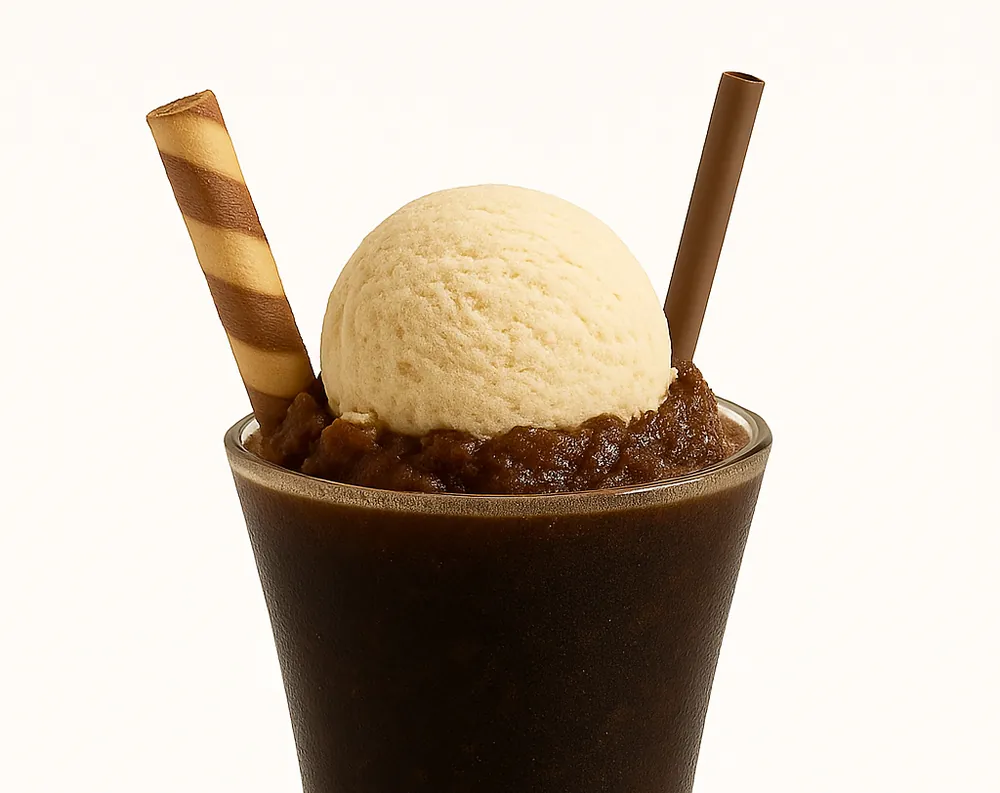
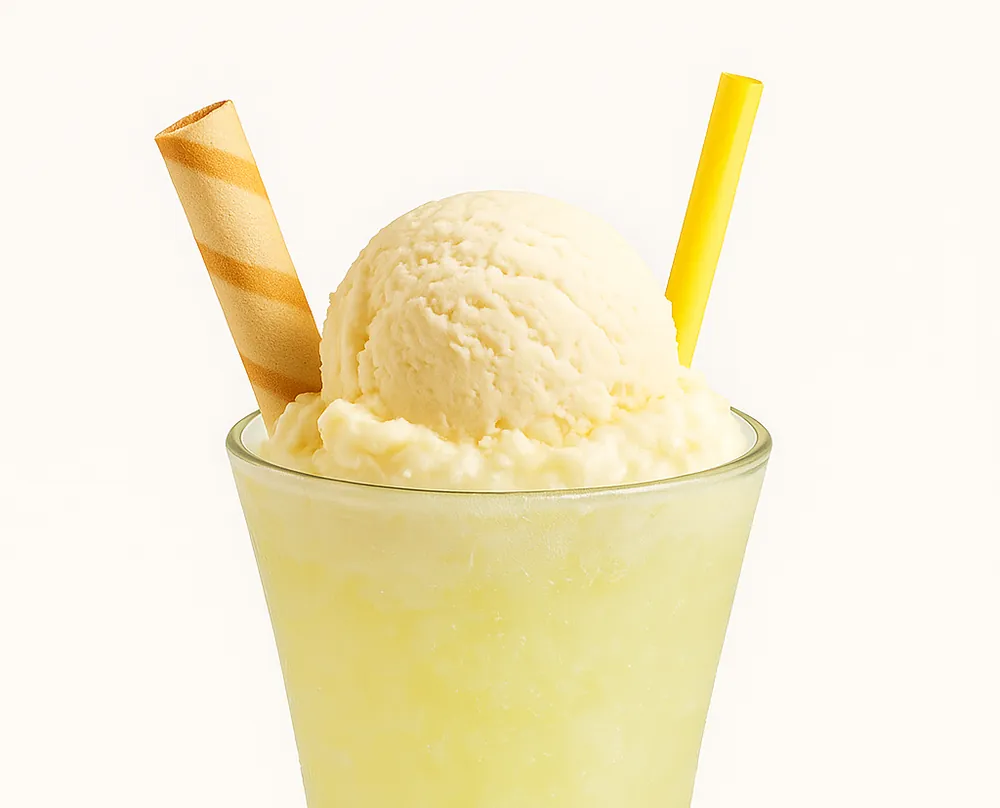
feat: fotos de granizados/helado, batido de Nube disponible y header sin tirones
Imágenes:
- Granizado de Turrón -> granizado11; Canario -> granizado12;
  Blanco y negro -> granizado13 (corregidos los alt copiados mal)
- Helado Tarta de queso -> helado27 (recorte temporal a 667x1000; pendiente
  reencuadre desde el original)

Disponibilidad:
- Batido de "Nube" pasado a disponible (quitado el estado no disponible)

Rendimiento (móvil):
- El header vuelve a su transición suave de 1.2s, pero se elimina el tirón en
  helados/batidos: la franja de precios sticky ya no se sincroniza leyendo
  nav.offsetHeight en cada frame (forzaba reflow 60x/seg sobre 35-41 tarjetas);
  ahora se miden las alturas una vez y la franja sigue a la nav con una
  transición CSS de 'top'. Scroll listener de la nav en modo passive.

diff --git a/script.js b/script.js
@@ -325,38 +325,55 @@ document.addEventListener('DOMContentLoaded', () => {
             nav.classList.remove('nav--compact');
         }
         toTop.classList.toggle('is-visible', window.scrollY > 400);
-    });
+    }, { passive: true });
 
-    // La franja de precios (sticky) se pega justo debajo de la nav. Como la
-    // nav cambia de altura al hacer scroll (con transición de ~1.2s), aquí
-    // sincronizamos su 'top' con la altura real de la nav en cada momento,
-    // siguiéndola también mientras la barra se agranda/encoge.
+    // La franja de precios (sticky) se pega justo debajo de la nav. La nav
+    // cambia de altura al hacer scroll con una transición de 1.2s. Antes
+    // seguíamos su altura con requestAnimationFrame leyendo nav.offsetHeight en
+    // CADA frame, lo que forzaba un recálculo de layout 60 veces/seg durante
+    // 1.2s; en helados/batidos (35-41 tarjetas) eso provocaba tirones.
+    // Ahora medimos las dos alturas de la nav UNA vez y, al cruzar el umbral,
+    // fijamos el 'top' de la franja al destino: la transición CSS de 'top'
+    // (misma curva y duración que la nav) la mantiene pegada SIN tocar el
+    // layout por frame.
     const priceLegend = document.querySelector('.legend-sticky');
     if (priceLegend) {
         const GAP = 0;
-        let followId = null;
-        let stopTimer = null;
-        const syncLegendTop = () => {
-            priceLegend.style.top = (nav.offsetHeight + GAP) + 'px';
+        let navTall = 0, navShort = 0;
+        const measureNav = () => {
+            const wasCompact = nav.classList.contains('nav--compact');
+            // 'nav--measuring' apaga las transiciones de la nav y de TODOS sus
+            // hijos para que alternar la clase no dispare animaciones/parpadeos.
+            nav.classList.add('nav--measuring');
+            nav.classList.remove('nav--compact');
+            navTall = nav.offsetHeight;
+            nav.classList.add('nav--compact');
+            navShort = nav.offsetHeight;
+            nav.classList.toggle('nav--compact', wasCompact);
+            nav.offsetHeight;                  // asienta el estado sin animar
+            nav.classList.remove('nav--measuring');
         };
-        const follow = () => {
-            syncLegendTop();
-            followId = requestAnimationFrame(follow);
+        let lastCompact = null;
+        const placeLegend = (animate) => {
+            const compact = window.scrollY > 60;
+            if (compact === lastCompact) return;
+            lastCompact = compact;
+            const top = (compact ? navShort : navTall) + GAP + 'px';
+            if (animate) {
+                priceLegend.style.top = top;   // la transición CSS la anima
+            } else {
+                const prev = priceLegend.style.transition;
+                priceLegend.style.transition = 'none';
+                priceLegend.style.top = top;
+                priceLegend.offsetHeight;
+                priceLegend.style.transition = prev;
+            }
         };
-        const stopFollow = () => {
-            if (followId) { cancelAnimationFrame(followId); followId = null; }
-            syncLegendTop();
-        };
-        syncLegendTop();
-        window.addEventListener('load', syncLegendTop);
-        window.addEventListener('resize', syncLegendTop);
-        window.addEventListener('scroll', syncLegendTop, { passive: true });
-        // Mientras la nav anima su tamaño, seguimos su altura cada frame
-        nav.addEventListener('transitionrun', () => {
-            if (!followId) follow();
-            clearTimeout(stopTimer);
-            stopTimer = setTimeout(stopFollow, 1400);
-        });
+        const reset = () => { measureNav(); lastCompact = null; placeLegend(false); };
+        reset();
+        window.addEventListener('load', reset);
+        window.addEventListener('resize', reset);
+        window.addEventListener('scroll', () => placeLegend(true), { passive: true });
     }
 
     // Animación de aparición de tarjetas al hacer scroll

diff --git a/granizados.html b/granizados.html
@@ -28,7 +28,7 @@
     <link rel="apple-touch-icon" href="/assets/favicon.png">
     <link rel="icon" type="image/x-icon" href="/assets/favicon.ico" sizes="any">
     <link rel="stylesheet" href="/reset.css">
-    <link rel="stylesheet" href="/style.css">
+    <link rel="stylesheet" href="/style.css">
     <link rel="preconnect" href="https://fonts.googleapis.com">
     <link rel="preconnect" href="https://fonts.gstatic.com" crossorigin>
     <link href="https://fonts.googleapis.com/css2?family=Open+Sans:ital,wght@0,300..800;1,300..800&family=Lobster+Two:ital,wght@0,400;0,700;1,400;1,700&display=swap" rel="stylesheet">
@@ -168,8 +168,7 @@
                 </div>
                 <div class="product-card">
                     <div class="product-card__image">
-                        <img loading="lazy" decoding="async" src="/assets/granizado-turron.webp" alt="Granizado de Turrón refrescante en Lo Pagán" class="product-card__img" onerror="this.style.display='none'; this.nextElementSibling.style.display='block';">
-                        <div class="no-image-placeholder" style="display: none; text-align: center; padding: 20px; color: #666; font-style: italic;" data-i18n="imagen-no-disponible">Imagen no disponible</div>
+                        <img loading="lazy" decoding="async" src="/assets/granizado11.webp" alt="Granizado de Turrón refrescante en Lo Pagán" class="product-card__img">
                     </div>
                     <div class="product-card__content">
                         <h2 class="product-card__title" data-i18n="turron">Turrón</h2>
@@ -177,7 +176,7 @@
                 </div>
                 <div class="product-card">
                     <div class="product-card__image">
-                        <img loading="lazy" decoding="async" src="/assets/granizado11.webp" alt="Granizado de Maracuyá con mango refrescante en San Pedro del Pinatar" class="product-card__img img-ajustada">
+                        <img loading="lazy" decoding="async" src="/assets/granizado12.webp" alt="Granizado Canario refrescante en San Pedro del Pinatar" class="product-card__img img-ajustada">
                     </div>
                     <div class="product-card__content">
                         <h2 class="product-card__title" data-i18n="canario">Canario</h2>
@@ -186,7 +185,7 @@
                 </div>
                 <div class="product-card">
                     <div class="product-card__image">
-                        <img loading="lazy" decoding="async" src="/assets/granizado12.webp" alt="Granizado de Maracuyá con mango refrescante en San Pedro del Pinatar" class="product-card__img img-ajustada">
+                        <img loading="lazy" decoding="async" src="/assets/granizado13.webp" alt="Granizado Blanco y negro refrescante en San Pedro del Pinatar" class="product-card__img img-ajustada">
                     </div>
                     <div class="product-card__content">
                         <h2 class="product-card__title" data-i18n="blanco-y-negro">Blanco y negro</h2>

diff --git a/fr/granizados.html b/fr/granizados.html
@@ -29,7 +29,6 @@
     <link rel="icon" type="image/x-icon" href="/assets/favicon.ico" sizes="any">
     <link rel="stylesheet" href="/reset.css">
     <link rel="stylesheet" href="/style.css">
-
     <link rel="preconnect" href="https://fonts.googleapis.com">
     <link rel="preconnect" href="https://fonts.gstatic.com" crossorigin>
     <link href="https://fonts.googleapis.com/css2?family=Open+Sans:ital,wght@0,300..800;1,300..800&family=Lobster+Two:ital,wght@0,400;0,700;1,400;1,700&display=swap" rel="stylesheet">
@@ -169,8 +168,7 @@
                 </div>
                 <div class="product-card">
                     <div class="product-card__image">
-                        <img loading="lazy" decoding="async" src="/assets/granizado-turron.webp" alt="Granizado de Turrón refrescante en Lo Pagán" class="product-card__img" onerror="this.style.display='none'; this.nextElementSibling.style.display='block';">
-                        <div class="no-image-placeholder" style="display: none; text-align: center; padding: 20px; color: #666; font-style: italic;" data-i18n="imagen-no-disponible">Image non disponible</div>
+                        <img loading="lazy" decoding="async" src="/assets/granizado11.webp" alt="Granizado de Turrón refrescante en Lo Pagán" class="product-card__img">
                     </div>
                     <div class="product-card__content">
                         <h2 class="product-card__title" data-i18n="turron">Nougat</h2>
@@ -178,7 +176,7 @@
                 </div>
                 <div class="product-card">
                     <div class="product-card__image">
-                        <img loading="lazy" decoding="async" src="/assets/granizado11.webp" alt="Granizado de Maracuyá con mango refrescante en San Pedro del Pinatar" class="product-card__img img-ajustada">
+                        <img loading="lazy" decoding="async" src="/assets/granizado12.webp" alt="Granizado Canario refrescante en San Pedro del Pinatar" class="product-card__img img-ajustada">
                     </div>
                     <div class="product-card__content">
                         <h2 class="product-card__title" data-i18n="canario">Canario</h2>
@@ -187,7 +185,7 @@
                 </div>
                 <div class="product-card">
                     <div class="product-card__image">
-                        <img loading="lazy" decoding="async" src="/assets/granizado12.webp" alt="Granizado de Maracuyá con mango refrescante en San Pedro del Pinatar" class="product-card__img img-ajustada">
+                        <img loading="lazy" decoding="async" src="/assets/granizado13.webp" alt="Granizado Blanco y negro refrescante en San Pedro del Pinatar" class="product-card__img img-ajustada">
                     </div>
                     <div class="product-card__content">
                         <h2 class="product-card__title" data-i18n="blanco-y-negro">Blanco y negro</h2>

diff --git a/en/granizados.html b/en/granizados.html
@@ -29,7 +29,6 @@
     <link rel="icon" type="image/x-icon" href="/assets/favicon.ico" sizes="any">
     <link rel="stylesheet" href="/reset.css">
     <link rel="stylesheet" href="/style.css">
-
     <link rel="preconnect" href="https://fonts.googleapis.com">
     <link rel="preconnect" href="https://fonts.gstatic.com" crossorigin>
     <link href="https://fonts.googleapis.com/css2?family=Open+Sans:ital,wght@0,300..800;1,300..800&family=Lobster+Two:ital,wght@0,400;0,700;1,400;1,700&display=swap" rel="stylesheet">
@@ -169,8 +168,7 @@
                 </div>
                 <div class="product-card">
                     <div class="product-card__image">
-                        <img loading="lazy" decoding="async" src="/assets/granizado-turron.webp" alt="Granizado de Turrón refrescante en Lo Pagán" class="product-card__img" onerror="this.style.display='none'; this.nextElementSibling.style.display='block';">
-                        <div class="no-image-placeholder" style="display: none; text-align: center; padding: 20px; color: #666; font-style: italic;" data-i18n="imagen-no-disponible">Image not available</div>
+                        <img loading="lazy" decoding="async" src="/assets/granizado11.webp" alt="Granizado de Turrón refrescante en Lo Pagán" class="product-card__img">
                     </div>
                     <div class="product-card__content">
                         <h2 class="product-card__title" data-i18n="turron">Nougat</h2>
@@ -178,7 +176,7 @@
                 </div>
                 <div class="product-card">
                     <div class="product-card__image">
-                        <img loading="lazy" decoding="async" src="/assets/granizado11.webp" alt="Granizado de Maracuyá con mango refrescante en San Pedro del Pinatar" class="product-card__img img-ajustada">
+                        <img loading="lazy" decoding="async" src="/assets/granizado12.webp" alt="Granizado Canario refrescante en San Pedro del Pinatar" class="product-card__img img-ajustada">
                     </div>
                     <div class="product-card__content">
                         <h2 class="product-card__title" data-i18n="canario">Canario</h2>
@@ -187,7 +185,7 @@
                 </div>
                 <div class="product-card">
                     <div class="product-card__image">
-                        <img loading="lazy" decoding="async" src="/assets/granizado12.webp" alt="Granizado de Maracuyá con mango refrescante en San Pedro del Pinatar" class="product-card__img img-ajustada">
+                        <img loading="lazy" decoding="async" src="/assets/granizado13.webp" alt="Granizado Blanco y negro refrescante en San Pedro del Pinatar" class="product-card__img img-ajustada">
                     </div>
                     <div class="product-card__content">
                         <h2 class="product-card__title" data-i18n="blanco-y-negro">Blanco y negro</h2>

diff --git a/batidos.html b/batidos.html
@@ -28,7 +28,7 @@
     <link rel="apple-touch-icon" href="/assets/favicon.png">
     <link rel="icon" type="image/x-icon" href="/assets/favicon.ico" sizes="any">
     <link rel="stylesheet" href="/reset.css">
-    <link rel="stylesheet" href="/style.css">
+    <link rel="stylesheet" href="/style.css">
     <link rel="preconnect" href="https://fonts.googleapis.com">
     <link rel="preconnect" href="https://fonts.gstatic.com" crossorigin>
     <link href="https://fonts.googleapis.com/css2?family=Open+Sans:ital,wght@0,300..800;1,300..800&family=Lobster+Two:ital,wght@0,400;0,700;1,400;1,700&display=swap" rel="stylesheet">
@@ -283,10 +283,10 @@
                     </div>
                 </div>
 
-                <div class="product-card product-card--unavailable">
+                <div class="product-card">
                     <div class="product-card__image">
                         <img loading="lazy" decoding="async" src="/assets/batido19.webp" alt="Batido de Nube en Lo Pagán" class="product-card__img" onerror="this.style.display='none'; this.nextElementSibling.style.display='block';">
-                        <div class="product-label product-label--unavailable" data-i18n="no-disponible">No disponible</div>
+                        <div class="no-image-placeholder" style="display: none; text-align: center; padding: 20px; color: #666; font-style: italic;" data-i18n="imagen-no-disponible">Imagen no disponible</div>
                     </div>
                     <div class="product-card__content">
                         <h2 class="product-card__title" data-i18n="nube">Nube</h2>

diff --git a/helados.html b/helados.html
@@ -28,7 +28,7 @@
     <link rel="apple-touch-icon" href="/assets/favicon.png">
     <link rel="icon" type="image/x-icon" href="/assets/favicon.ico" sizes="any">
     <link rel="stylesheet" href="/reset.css">
-    <link rel="stylesheet" href="/style.css">
+    <link rel="stylesheet" href="/style.css">
     <link rel="preconnect" href="https://fonts.googleapis.com">
     <link rel="preconnect" href="https://fonts.gstatic.com" crossorigin>
     <link href="https://fonts.googleapis.com/css2?family=Open+Sans:ital,wght@0,300..800;1,300..800&family=Lobster+Two:ital,wght@0,400;0,700;1,400;1,700&display=swap" rel="stylesheet">
@@ -347,8 +347,7 @@
                 </div>
                 <div class="product-card">
                     <div class="product-card__image">
-                        <img loading="lazy" decoding="async" src="/assets/tarta-queso.webp" alt="Helado de Tarta de queso artesanal en Lo Pagán" class="product-card__img" onerror="this.style.display='none'; this.nextElementSibling.style.display='block';">
-                        <div class="no-image-placeholder" style="display: none; text-align: center; padding: 20px; color: #666; font-style: italic;" data-i18n="imagen-no-disponible">Imagen no disponible</div>
+                        <img loading="lazy" decoding="async" src="/assets/helado27.webp" alt="Helado artesanal de Tarta de queso en Lo Pagán" class="product-card__img">
                         <div class="product-label product-label--new" data-i18n="nuevo">Nuevo</div>
                     </div>
                     <div class="product-card__content">

diff --git a/fr/batidos.html b/fr/batidos.html
@@ -29,7 +29,6 @@
     <link rel="icon" type="image/x-icon" href="/assets/favicon.ico" sizes="any">
     <link rel="stylesheet" href="/reset.css">
     <link rel="stylesheet" href="/style.css">
-
     <link rel="preconnect" href="https://fonts.googleapis.com">
     <link rel="preconnect" href="https://fonts.gstatic.com" crossorigin>
     <link href="https://fonts.googleapis.com/css2?family=Open+Sans:ital,wght@0,300..800;1,300..800&family=Lobster+Two:ital,wght@0,400;0,700;1,400;1,700&display=swap" rel="stylesheet">
@@ -284,10 +283,10 @@
                     </div>
                 </div>
 
-                <div class="product-card product-card--unavailable">
+                <div class="product-card">
                     <div class="product-card__image">
                         <img loading="lazy" decoding="async" src="/assets/batido19.webp" alt="Batido de Nube en Lo Pagán" class="product-card__img" onerror="this.style.display='none'; this.nextElementSibling.style.display='block';">
-                        <div class="product-label product-label--unavailable" data-i18n="no-disponible">Non disponible</div>
+                        <div class="no-image-placeholder" style="display: none; text-align: center; padding: 20px; color: #666; font-style: italic;" data-i18n="imagen-no-disponible">Image non disponible</div>
                     </div>
                     <div class="product-card__content">
                         <h2 class="product-card__title" data-i18n="nube">Barbe à papa</h2>

diff --git a/en/batidos.html b/en/batidos.html
@@ -29,7 +29,6 @@
     <link rel="icon" type="image/x-icon" href="/assets/favicon.ico" sizes="any">
     <link rel="stylesheet" href="/reset.css">
     <link rel="stylesheet" href="/style.css">
-
     <link rel="preconnect" href="https://fonts.googleapis.com">
     <link rel="preconnect" href="https://fonts.gstatic.com" crossorigin>
     <link href="https://fonts.googleapis.com/css2?family=Open+Sans:ital,wght@0,300..800;1,300..800&family=Lobster+Two:ital,wght@0,400;0,700;1,400;1,700&display=swap" rel="stylesheet">
@@ -284,10 +283,10 @@
                     </div>
                 </div>
 
-                <div class="product-card product-card--unavailable">
+                <div class="product-card">
                     <div class="product-card__image">
                         <img loading="lazy" decoding="async" src="/assets/batido19.webp" alt="Batido de Nube en Lo Pagán" class="product-card__img" onerror="this.style.display='none'; this.nextElementSibling.style.display='block';">
-                        <div class="product-label product-label--unavailable" data-i18n="no-disponible">Not available</div>
+                        <div class="no-image-placeholder" style="display: none; text-align: center; padding: 20px; color: #666; font-style: italic;" data-i18n="imagen-no-disponible">Image not available</div>
                     </div>
                     <div class="product-card__content">
                         <h2 class="product-card__title" data-i18n="nube">Cotton Candy</h2>

diff --git a/fr/helados.html b/fr/helados.html
@@ -29,7 +29,6 @@
     <link rel="icon" type="image/x-icon" href="/assets/favicon.ico" sizes="any">
     <link rel="stylesheet" href="/reset.css">
     <link rel="stylesheet" href="/style.css">
-
     <link rel="preconnect" href="https://fonts.googleapis.com">
     <link rel="preconnect" href="https://fonts.gstatic.com" crossorigin>
     <link href="https://fonts.googleapis.com/css2?family=Open+Sans:ital,wght@0,300..800;1,300..800&family=Lobster+Two:ital,wght@0,400;0,700;1,400;1,700&display=swap" rel="stylesheet">
@@ -340,8 +339,7 @@
                 </div>
                 <div class="product-card">
                     <div class="product-card__image">
-                        <img loading="lazy" decoding="async" src="/assets/tarta-queso.webp" alt="Helado de Tarta de queso artesanal en Lo Pagán" class="product-card__img" onerror="this.style.display='none'; this.nextElementSibling.style.display='block';">
-                        <div class="no-image-placeholder" style="display: none; text-align: center; padding: 20px; color: #666; font-style: italic;" data-i18n="imagen-no-disponible">Image non disponible</div>
+                        <img loading="lazy" decoding="async" src="/assets/helado27.webp" alt="Helado artesanal de Tarta de queso en Lo Pagán" class="product-card__img">
                         <div class="product-label product-label--new" data-i18n="nuevo">Nouveau</div>
                     </div>
                     <div class="product-card__content">

diff --git a/en/helados.html b/en/helados.html
@@ -29,7 +29,6 @@
     <link rel="icon" type="image/x-icon" href="/assets/favicon.ico" sizes="any">
     <link rel="stylesheet" href="/reset.css">
     <link rel="stylesheet" href="/style.css">
-
     <link rel="preconnect" href="https://fonts.googleapis.com">
     <link rel="preconnect" href="https://fonts.gstatic.com" crossorigin>
     <link href="https://fonts.googleapis.com/css2?family=Open+Sans:ital,wght@0,300..800;1,300..800&family=Lobster+Two:ital,wght@0,400;0,700;1,400;1,700&display=swap" rel="stylesheet">
@@ -340,8 +339,7 @@
                 </div>
                 <div class="product-card">
                     <div class="product-card__image">
-                        <img loading="lazy" decoding="async" src="/assets/tarta-queso.webp" alt="Helado de Tarta de queso artesanal en Lo Pagán" class="product-card__img" onerror="this.style.display='none'; this.nextElementSibling.style.display='block';">
-                        <div class="no-image-placeholder" style="display: none; text-align: center; padding: 20px; color: #666; font-style: italic;" data-i18n="imagen-no-disponible">Image not available</div>
+                        <img loading="lazy" decoding="async" src="/assets/helado27.webp" alt="Helado artesanal de Tarta de queso en Lo Pagán" class="product-card__img">
                         <div class="product-label product-label--new" data-i18n="nuevo">New</div>
                     </div>
                     <div class="product-card__content">

diff --git a/style.css b/style.css
@@ -1568,6 +1568,9 @@ link[rel="icon"] {
     margin-left: calc(-50vw + 50%);
     padding: 12px 1rem 14px;
     background: var(--aquamarine-blue);
+    /* Sigue la altura de la nav animando 'top' con la MISMA curva/duración que
+       la nav, vía CSS (sin recalcular layout por frame en JS). Ver script.js. */
+    transition: top 1.2s cubic-bezier(0.4,0,0.2,1);
 }
 
 @media (max-width: 768px) {
@@ -2016,6 +2019,13 @@ body {
     transition: padding 1.2s cubic-bezier(0.4,0,0.2,1), background 1.2s cubic-bezier(0.4,0,0.2,1);
     min-height: unset !important;
     height: unset !important;
+}
+
+/* Mientras script.js mide las dos alturas de la nav, desactiva todas las
+   transiciones (nav + hijos) para que la medición no provoque parpadeos. */
+.nav.nav--measuring,
+.nav.nav--measuring * {
+    transition: none !important;
 }
 
 @media (max-width: 768px) {
